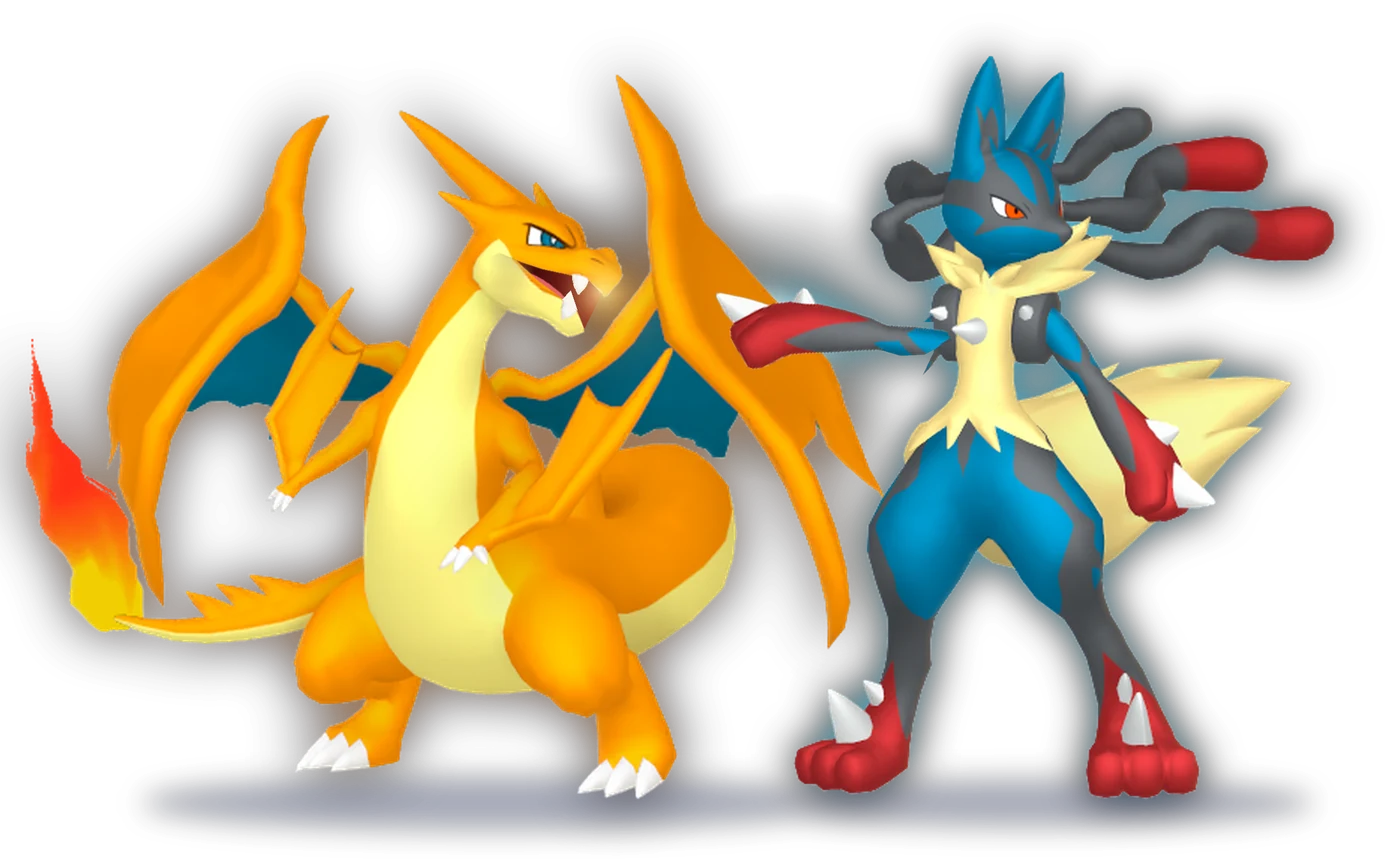
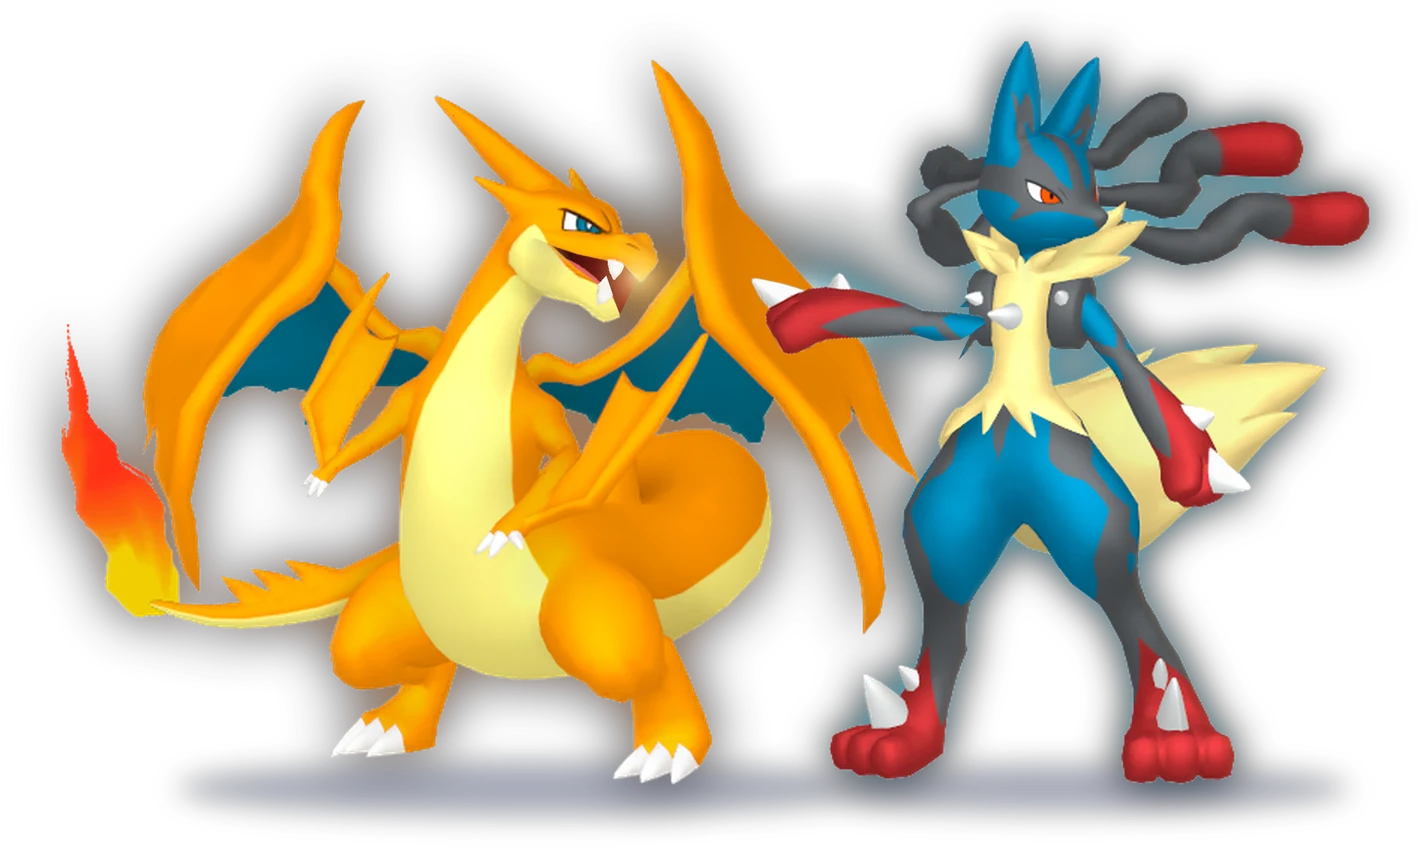
App v10: l'immagine di Play non ha più il bordo netto a sinistra
L'alone e l'ombra di Charizard venivano tagliati dal bordo sinistro dell'immagine
(alpha 33 sul bordo): nella scena si vedeva una riga verticale leggera dove
l'immagine iniziava, proprio tra la zona dell'allenatore e le figure.
Ora la tela di lavoro ha un margine e il ritaglio include tutto quello che si vede:
l'alpha è 0 su tutti i bordi (lo script si ferma se un alone tocca il bordo).
I Pokémon restano della stessa grandezza.

Claude-Session: https://claude.ai/code/session_01G7sYikhG7HEY1A3mUCTzFw

diff --git a/tools/scena-play/duello.py b/tools/scena-play/duello.py
@@ -5,11 +5,14 @@ import pose, effetti as E
 from compose import LW,LH,TERRA,bbox
 
 K=pose.K
+M=260                          # margine della tela (a sinistra, a destra e sotto): alone e ombra devono sfumare del tutto prima del bordo
+DIM=(LW+2*M,LH+M)
+SCALA=1400/2349                # riduzione finale: la stessa di prima, i Pokémon restano della stessa grandezza
 def trasforma(im,altezza,sinistra):
     b=bbox(im); w,h=b[2]-b[0],b[3]-b[1]; s=altezza/h
     crop=im.crop(b).resize((int(w*s),int(h*s)),Image.LANCZOS)
-    x=int(sinistra); y=int(TERRA-crop.height)
-    tela=Image.new('RGBA',(LW,LH),(0,0,0,0)); tela.alpha_composite(crop,(x,y))
+    x=int(sinistra)+M; y=int(TERRA-crop.height)
+    tela=Image.new('RGBA',DIM,(0,0,0,0)); tela.alpha_composite(crop,(x,y))
     return tela,(b,s,x,y)
 
 def main(hc=1220,hl=1250,xc=40,xl=1010,out='duello'):
@@ -25,7 +28,7 @@ def main(hc=1220,hl=1250,xc=40,xl=1010,out='duello'):
     bocca=pc((176,214))          # davanti alla bocca aperta
     pugno=pl((66,192))           # pugno di Lucario
     print('bocca',bocca,'pugno',pugno)
-    dim=(LW,LH)
+    dim=DIM
     mc=cc.getchannel('A'); ml=ll.getchannel('A')
     strati=Image.new('RGBA',dim,(0,0,0,0))
     # --- dietro: alone dei due (uno caldo, uno freddo)
@@ -62,16 +65,17 @@ def main(hc=1220,hl=1250,xc=40,xl=1010,out='duello'):
     t.save(out+'-grande.png')
     # anteprima su un cielo
     cielo=Image.new('RGBA',dim,(0,0,0,255))
-    arr=np.zeros((LH,LW,4),dtype='uint8'); gy=np.linspace(0,1,LH)[:,None]
+    arr=np.zeros((DIM[1],DIM[0],4),dtype='uint8'); gy=np.linspace(0,1,DIM[1])[:,None]
     arr[...,0]=(10+150*gy).astype('uint8'); arr[...,1]=(79+140*gy).astype('uint8'); arr[...,2]=(214+30*gy).astype('uint8'); arr[...,3]=255
     cielo=Image.fromarray(arr,'RGBA'); cielo.alpha_composite(t)
-    cielo.resize((1200,750),Image.LANCZOS).save(out+'-anteprima.png')
+    cielo.resize((1200,int(1200*DIM[1]/DIM[0])),Image.LANCZOS).save(out+'-anteprima.png')
     json.dump({'bocca':bocca,'pugno':pugno},open(out+'-punti.json','w'))
-    bb=t.getchannel('A').point(lambda v:255 if v>10 else 0).getbbox()
-    m=60
-    box=(max(0,bb[0]-m),max(0,bb[1]-m),min(LW,bb[2]+m),min(LH,bb[3]+m))
+    bb=t.getchannel('A').point(lambda v:255 if v>2 else 0).getbbox()
+    m=12
+    box=(max(0,bb[0]-m),max(0,bb[1]-m),min(DIM[0],bb[2]+m),min(DIM[1],bb[3]+m))
+    assert box[0]>0 and box[2]<DIM[0] and box[3]<DIM[1], 'alone o ombra toccano il bordo della tela: serve più margine (M)'
     fin=t.crop(box)
-    larg=1400; fin=fin.resize((larg,int(fin.height*larg/fin.width)),Image.LANCZOS)
+    fin=fin.resize((int(round(fin.width*SCALA)),int(round(fin.height*SCALA))),Image.LANCZOS)
     fin.save(out+'-finale.webp',quality=88,alpha_quality=92,method=6)
     fin.save(out+'-finale.png')
     print('finale',fin.size,box)

diff --git a/tools/scena-play/LEGGIMI.md b/tools/scena-play/LEGGIMI.md
@@ -13,6 +13,6 @@ cp duello-finale.webp docs/immagini/app/scena-play.webp
 
 - `pose.py`: le due pose (angolo del braccio, apertura della bocca).
 - `effetti.py`: aloni, luci di taglio e bagliori.
-- `duello.py`: la composizione e l'esportazione (WebP con trasparenza, 1400 px di larghezza).
+- `duello.py`: la composizione e l'esportazione (WebP con trasparenza, circa 1400 px di larghezza). Alone e ombre sfumano del tutto prima del bordo dell'immagine (il programma si ferma se lo toccano): un taglio netto lì si vedrebbe nella scena come una riga verticale.
 
 Una tua immagine, `docs/immagini/app/tessera-play.png` (o `.webp`), ha la precedenza su questa.
